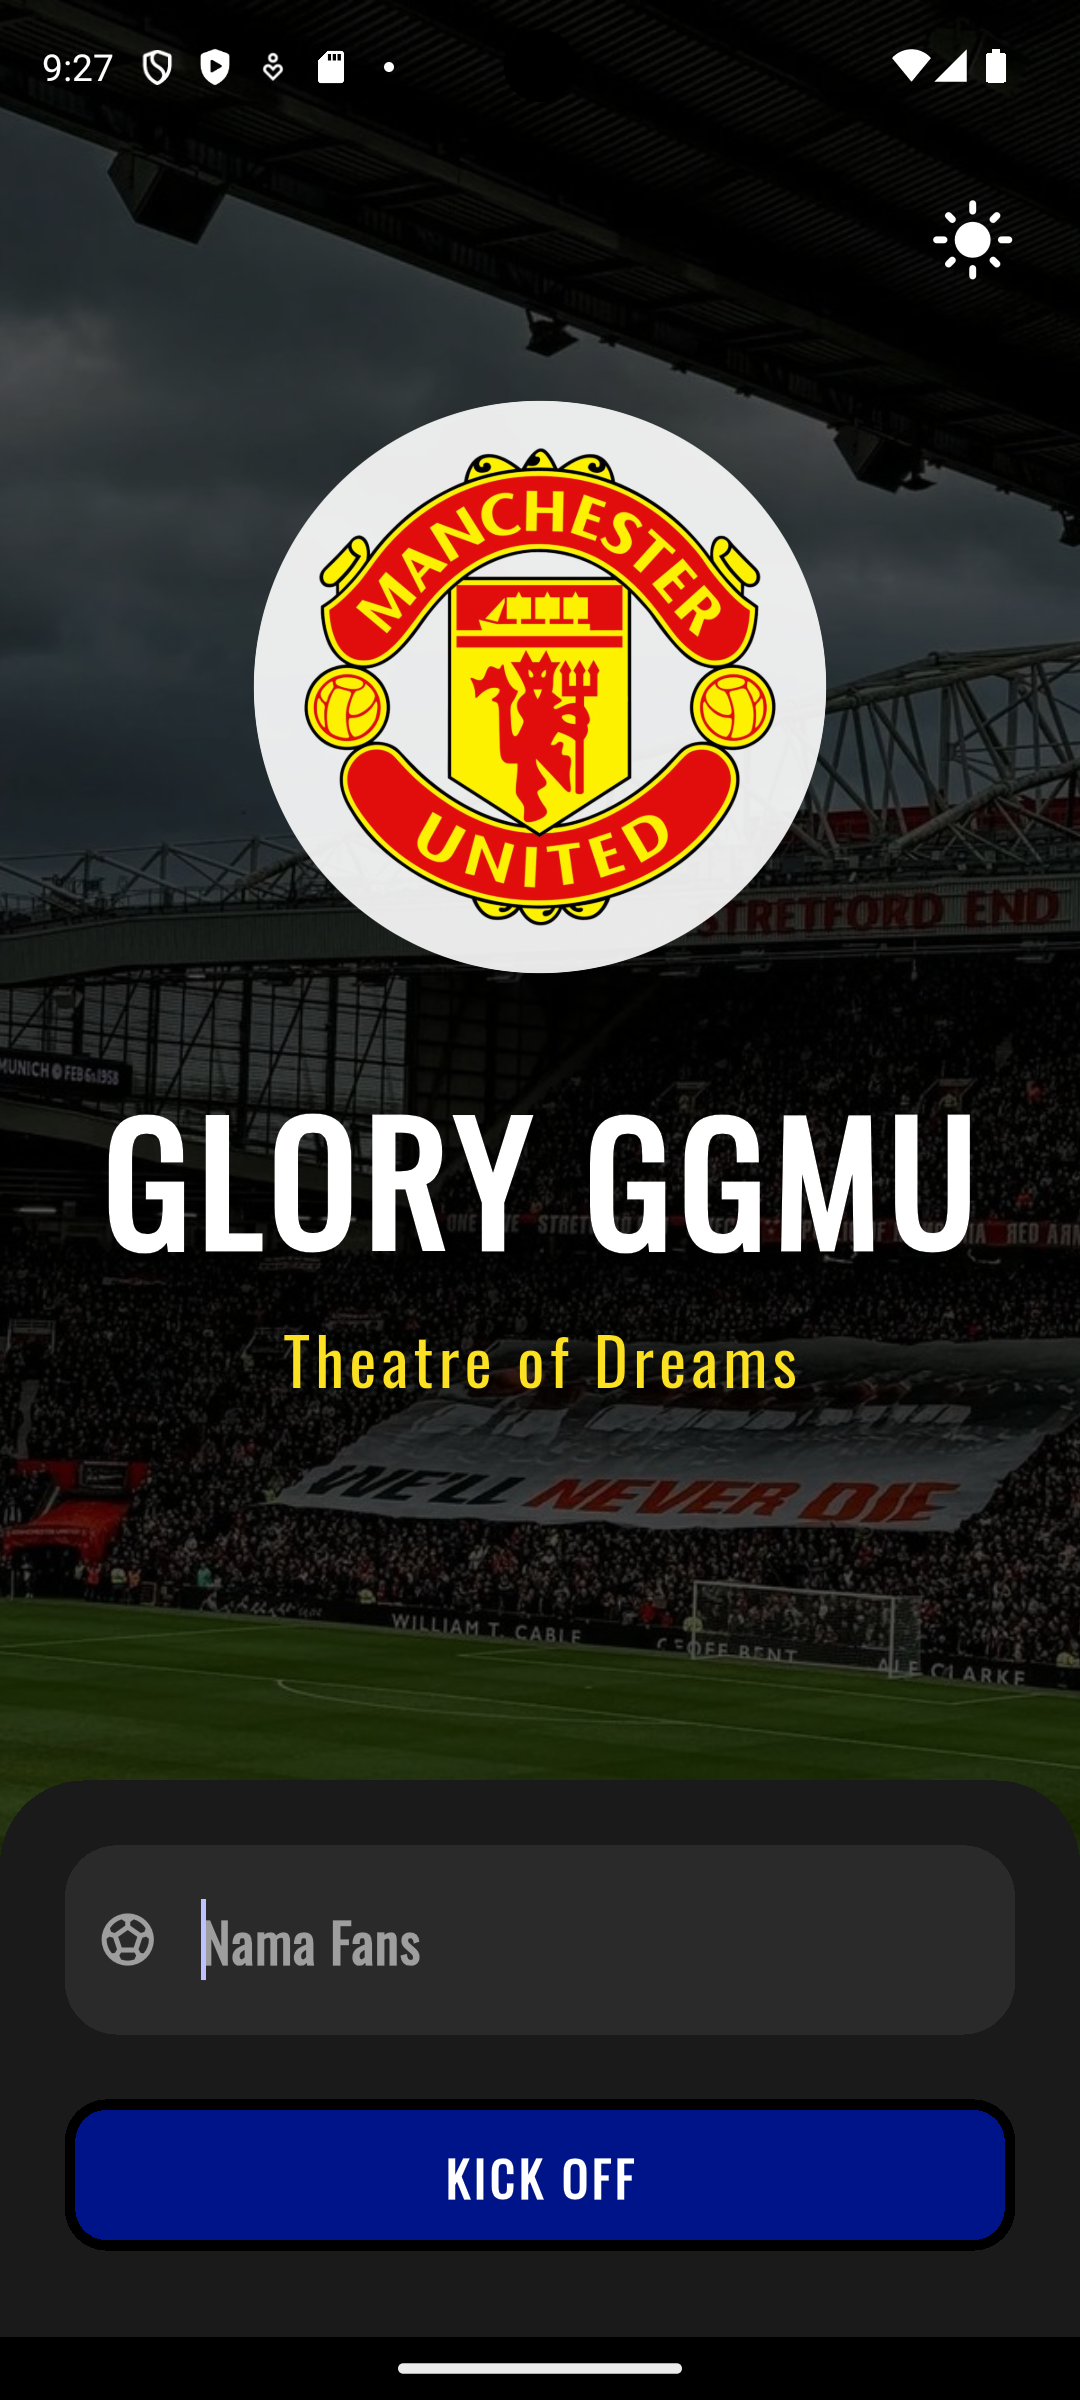
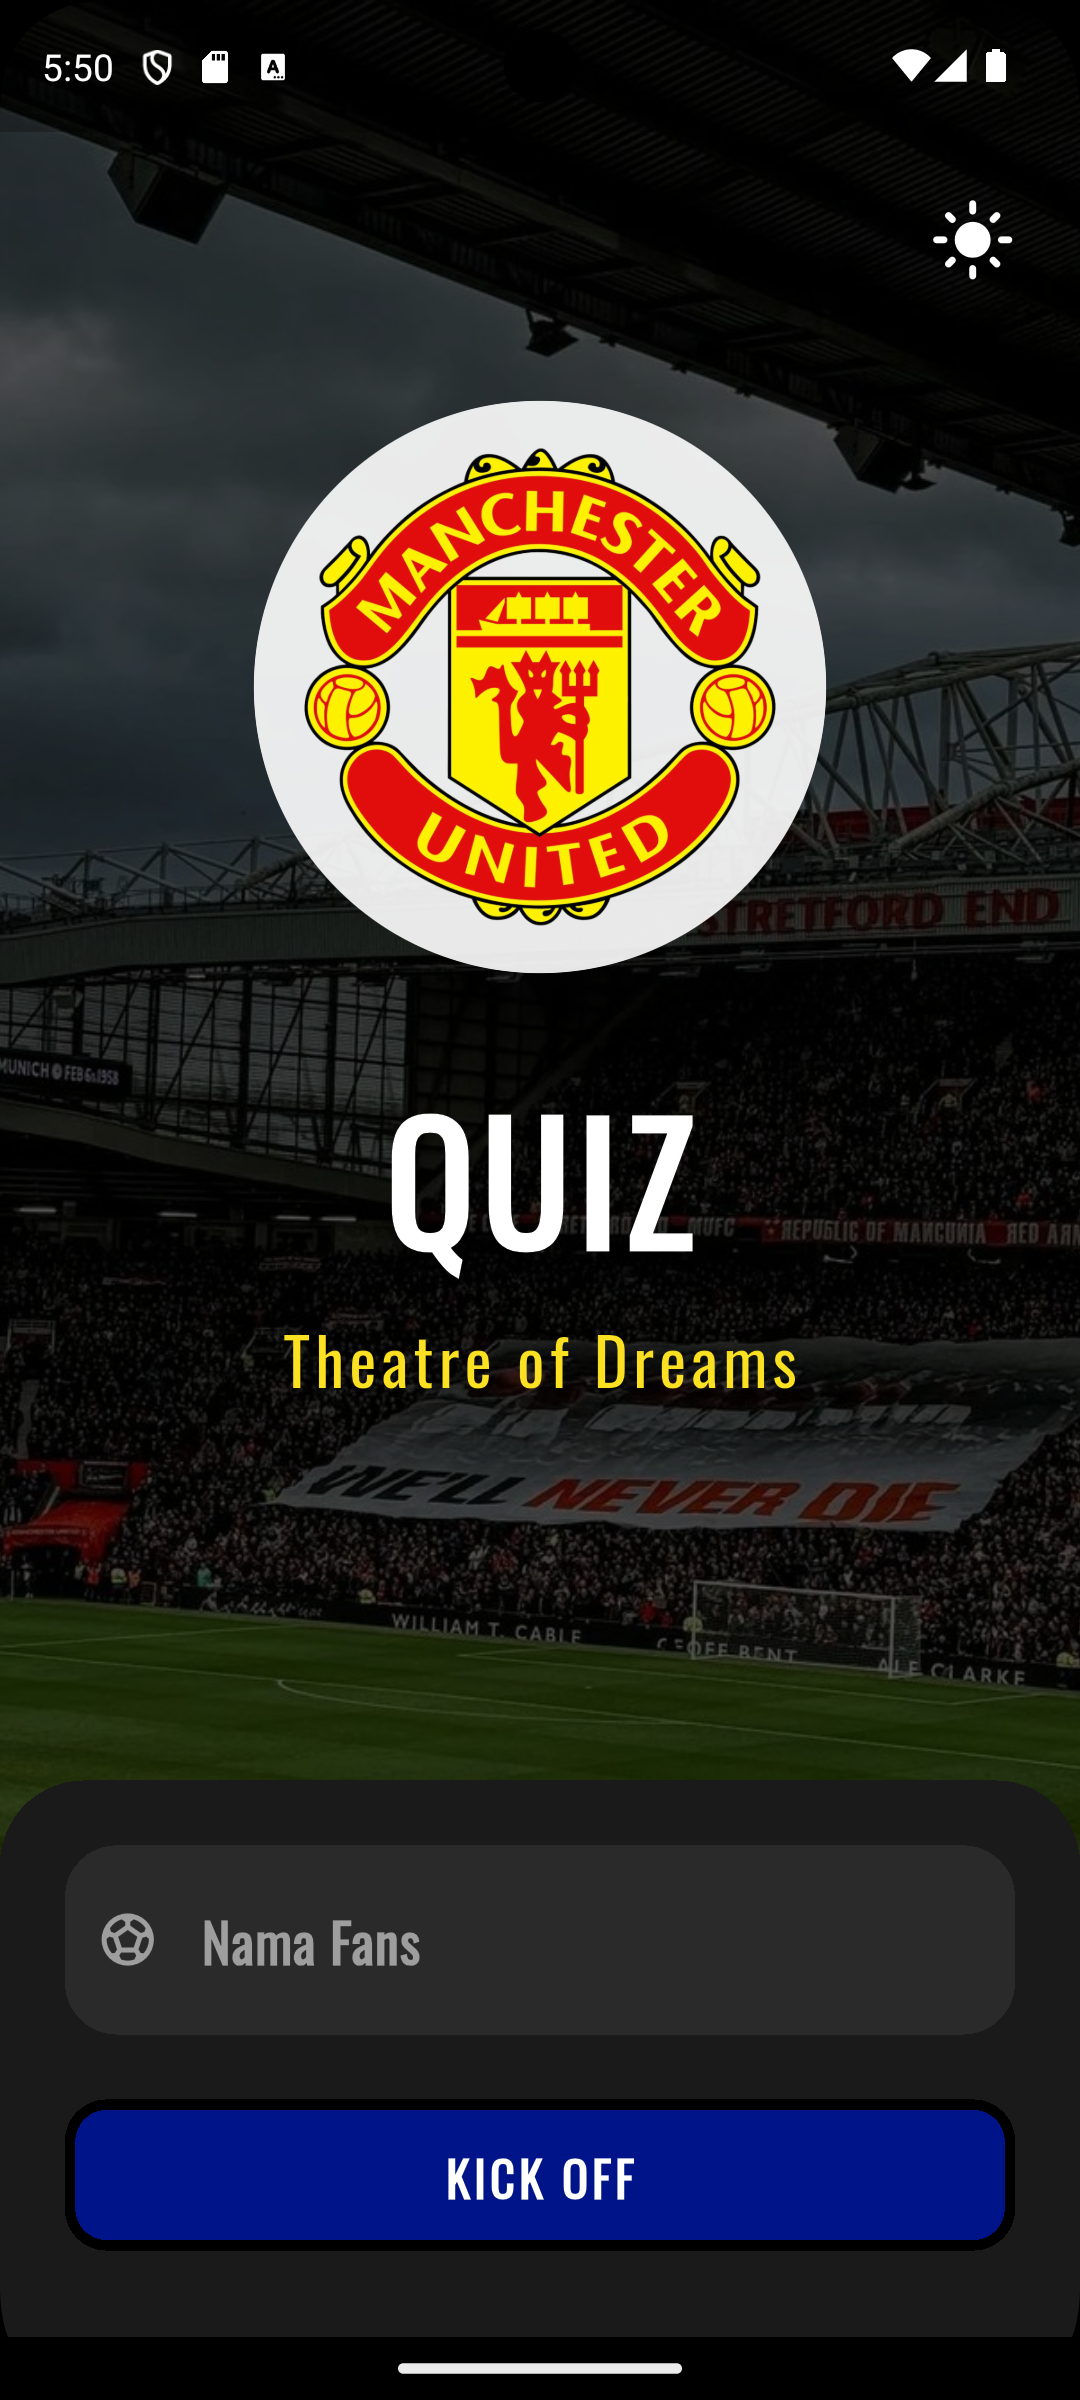
fix: welcome screen

diff --git a/lib/screens/welcome_screen.dart b/lib/screens/welcome_screen.dart
@@ -77,7 +77,7 @@ class _WelcomeScreenState extends State<WelcomeScreen> {
                         ),
                         SizedBox(height: screenWidth * 0.08),
                         Text(
-                          'GLORY GGMU',
+                          'QUIZ',
                           style: TextStyle(
                             fontSize: screenWidth * 0.15, 
                             fontWeight: FontWeight.w900, 
